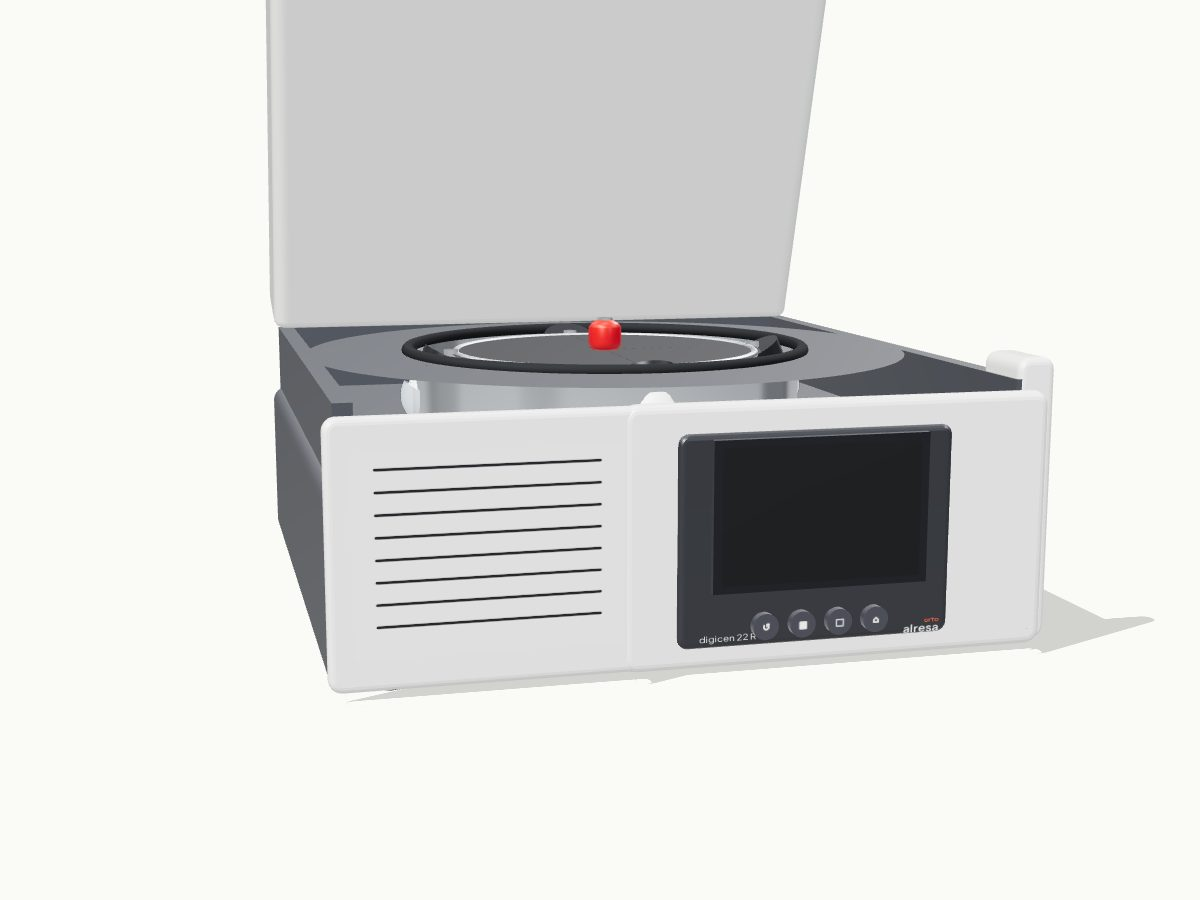
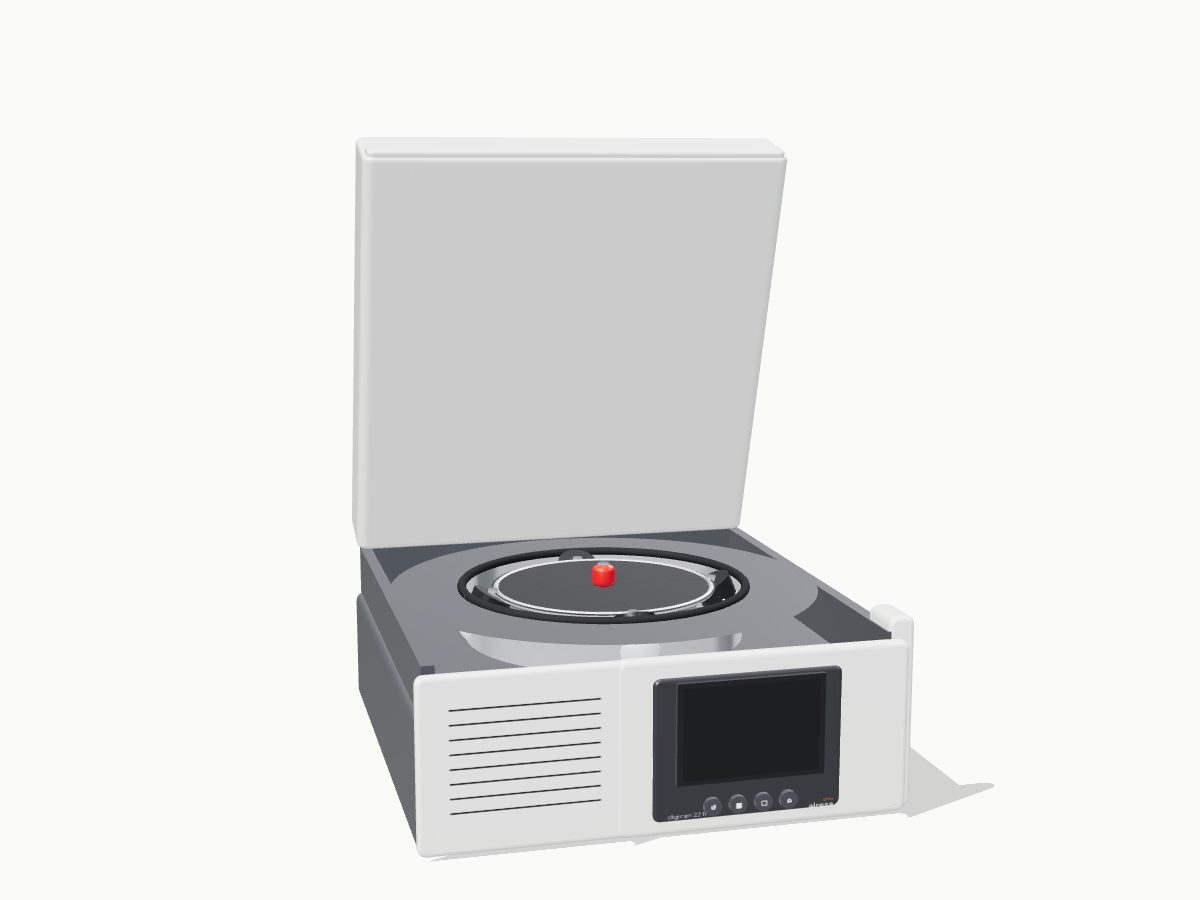
fix(web): harden poster/model scripts; frame the open Digicen lid
test-models exits 1 on an empty id list; generate-posters answers 400 on bad
URLs, closes the browser on SIGINT/SIGTERM and takes optional slugs. The
Digicen 22 R general view now frames the open lid (new optional frameMargin)
and its poster is regenerated.

diff --git a/apps/web/src/lib/showroom/scene.ts b/apps/web/src/lib/showroom/scene.ts
@@ -187,7 +187,7 @@ export function createShowroom(canvas: HTMLCanvasElement, initial: BuiltModel, o
     const at = framed.getCenter(new THREE.Vector3());
     const half = Math.tan(THREE.MathUtils.degToRad(camera.fov / 2));
     const across = Math.hypot(framedSize.x, framedSize.z) * 0.8;
-    const distance = Math.max(framedSize.y / 2 / half, across / 2 / (half * camera.aspect)) * 1.18;
+    const distance = Math.max(framedSize.y / 2 / half, across / 2 / (half * camera.aspect)) * (model.frameMargin ?? 1.18);
     return { at, pos: at.clone().add(new THREE.Vector3(0.32, 0.18, 1).normalize().multiplyScalar(distance)) };
   };
   const viewFor = (name: string) => {

diff --git a/apps/web/src/lib/showroom/types.ts b/apps/web/src/lib/showroom/types.ts
@@ -28,6 +28,8 @@ export interface BuiltModel {
    * (una varilla de soporte, una tapa abierta). Sin valor, encuadra todo.
    */
   frameTop?: number;
+  /** Holgura de la vista general (por defecto 1,18): más alta, el equipo se ve más pequeño. */
+  frameMargin?: number;
   /** Giro de presentación en radianes (por defecto 0,55). */
   yaw?: number;
   /** Avanza la animación; `level` va de 0 (en reposo) a 1 (en marcha). */

diff --git a/apps/web/src/lib/showroom/models/ortoalresa-digicen-22-r.ts b/apps/web/src/lib/showroom/models/ortoalresa-digicen-22-r.ts
@@ -630,7 +630,9 @@ export function build(): BuiltModel {
         distance:  950,
       },
     },
-    frameTop: BODY_T + 30,
+    // Con la tapa abierta (reposo) la punta llega a ~840 mm: el encuadre general la incluye.
+    frameTop: BODY_T + 620,
+    frameMargin: 1.45, // la cámara mira desde arriba: la tapa alta y el frente entran enteros
     yaw: 0.56,
 
     setPower(on: boolean) {
